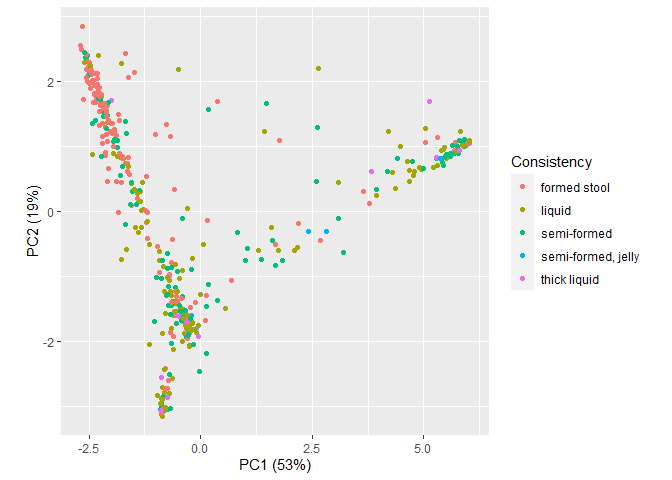
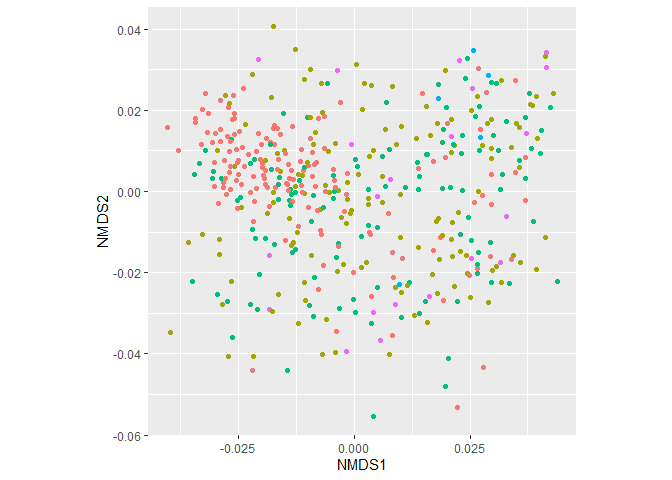
revised pcoa method

diff --git a/examples/pcoa.md b/examples/pcoa.md
@@ -8,17 +8,14 @@ tSNE, and UMAP. Here is sample code for each.
 library(tidyverse)
 library(yingtools2)
 library(phyloseq)
+library(vegan)
+library(scales)
 ```
 
-First, start with a distance matrix. In this example I am calculating
-Bray-Curtis distances from the phyloseq object `cid.phy`. Also, prepare
-the sample data, which will contain metadata that I might want to plot
-by.
-
-``` r
-dst <- distance(cid.phy,method="bray")
-s <- get.samp(cid.phy)
-```
+First, choose a distance metric to calculate. In this example I am
+calculating Bray-Curtis distances from the phyloseq object `cid.phy`.
+Also, prepare the sample data, which will contain metadata that I might
+want to plot by.
 
 Note that you can calculate distance a variety of metrics, such as
 euclidean, Manhattan, unweighted/weighted Unifrac, etc. Also note that
@@ -29,16 +26,45 @@ Unifrac.
 To perform PCoA:
 
 ``` r
-pca <- prcomp(dst)
-pcadata <- pca$x %>% data.frame() %>% 
+s <- get.samp(cid.phy)
+pcadata <- ordinate(cid.phy, method = "NMDS", distance = "bray") %>%
+  scores(display = "sites") %>%
+  as.data.frame() %>%
   rownames_to_column("sample") %>%
-  left_join(s,by="sample")
-loadings <- summary(pca)$importance["Proportion of Variance",][1:2]
-axis.labels <- paste0(names(loadings)," (",scales::percent(loadings),")")
-ggplot(pcadata,aes(x=PC1,y=PC2,color=Consistency)) + 
+  left_join(s, by = "sample")
+```
+
+    ## Square root transformation
+    ## Wisconsin double standardization
+    ## Run 0 stress 0.2631232 
+    ## Run 1 stress 0.2785785 
+    ## Run 2 stress 0.2851506 
+    ## Run 3 stress 0.2863185 
+    ## Run 4 stress 0.2809729 
+    ## Run 5 stress 0.2823929 
+    ## Run 6 stress 0.2688536 
+    ## Run 7 stress 0.2783419 
+    ## Run 8 stress 0.2796143 
+    ## Run 9 stress 0.2783279 
+    ## Run 10 stress 0.2860568 
+    ## Run 11 stress 0.2816526 
+    ## Run 12 stress 0.284078 
+    ## Run 13 stress 0.2746745 
+    ## Run 14 stress 0.2889965 
+    ## Run 15 stress 0.2886998 
+    ## Run 16 stress 0.285084 
+    ## Run 17 stress 0.2899092 
+    ## Run 18 stress 0.26521 
+    ## Run 19 stress 0.2741805 
+    ## Run 20 stress 0.2863341 
+    ## *** No convergence -- monoMDS stopping criteria:
+    ##     16: stress ratio > sratmax
+    ##      4: scale factor of the gradient < sfgrmin
+
+``` r
+ggplot(pcadata, aes(x = NMDS1, y = NMDS2, color = Consistency)) +
   geom_point() +
-  xlab(axis.labels[1]) + ylab(axis.labels[2]) + 
-  theme(aspect.ratio=1)
+  theme(aspect.ratio = 1, legend.position = "none")
 ```
 
 ![](pcoa_files/figure-gfm/unnamed-chunk-3-1.png)<!-- -->
@@ -47,16 +73,14 @@ To perform tSNE:
 
 ``` r
 library(Rtsne)
-tsne <- Rtsne(dst,is_distance=TRUE)
-tsnedata <- data.frame(tsne$Y) %>% rename(tSNE1=X1,tSNE2=X2) %>%
+dst <- distance(cid.phy, method = "bray")
+tsne <- Rtsne(dst, is_distance = TRUE)
+tsnedata <- data.frame(tsne$Y) %>%
+  rename(tSNE1 = X1, tSNE2 = X2) %>%
   bind_cols(s)
-pcadata <- pca$x %>% data.frame() %>% 
-  rownames_to_column("sample") %>%
-  left_join(s,by="sample")
-loadings <- summary(pca)$importance["Proportion of Variance",][1:2]
-axis.labels <- paste0(names(loadings)," (",scales::percent(loadings),")")
-ggplot(tsnedata,aes(x=tSNE1,y=tSNE2,color=Consistency)) + 
-  geom_point() + theme(aspect.ratio=1)
+ggplot(tsnedata, aes(x = tSNE1, y = tSNE2, color = Consistency)) +
+  geom_point() +
+  theme(aspect.ratio = 1)
 ```
 
 ![](pcoa_files/figure-gfm/unnamed-chunk-4-1.png)<!-- -->
@@ -65,15 +89,18 @@ To perform UMAP:
 
 ``` r
 library(umap)
-otu <- get.otu(cid.phy,as.matrix=TRUE) %>% t()
+otu <- get.otu(cid.phy, as.matrix = TRUE) %>% t()
 umap <- umap(otu)
-umapdata <- umap$layout %>% data.frame() %>% rownames_to_column("sample") %>% 
-  rename(UMAP1=X1,UMAP2=X2) %>% left_join(s,by="sample")
-ggplot(umapdata,aes(x=UMAP1,y=UMAP2,color=Consistency)) + 
+umapdata <- umap$layout %>%
+  data.frame() %>%
+  rownames_to_column("sample") %>%
+  rename(UMAP1 = X1, UMAP2 = X2) %>%
+  left_join(s, by = "sample")
+ggplot(umapdata, aes(x = UMAP1, y = UMAP2, color = Consistency)) +
   geom_point() +
-  theme(aspect.ratio=1)
+  theme(aspect.ratio = 1)
 ```
 
 ![](pcoa_files/figure-gfm/unnamed-chunk-5-1.png)<!-- -->
 
-Note that UMAP doesn’t take a distance matrix.
+Note that UMAP doesn’t use a distance metric.
